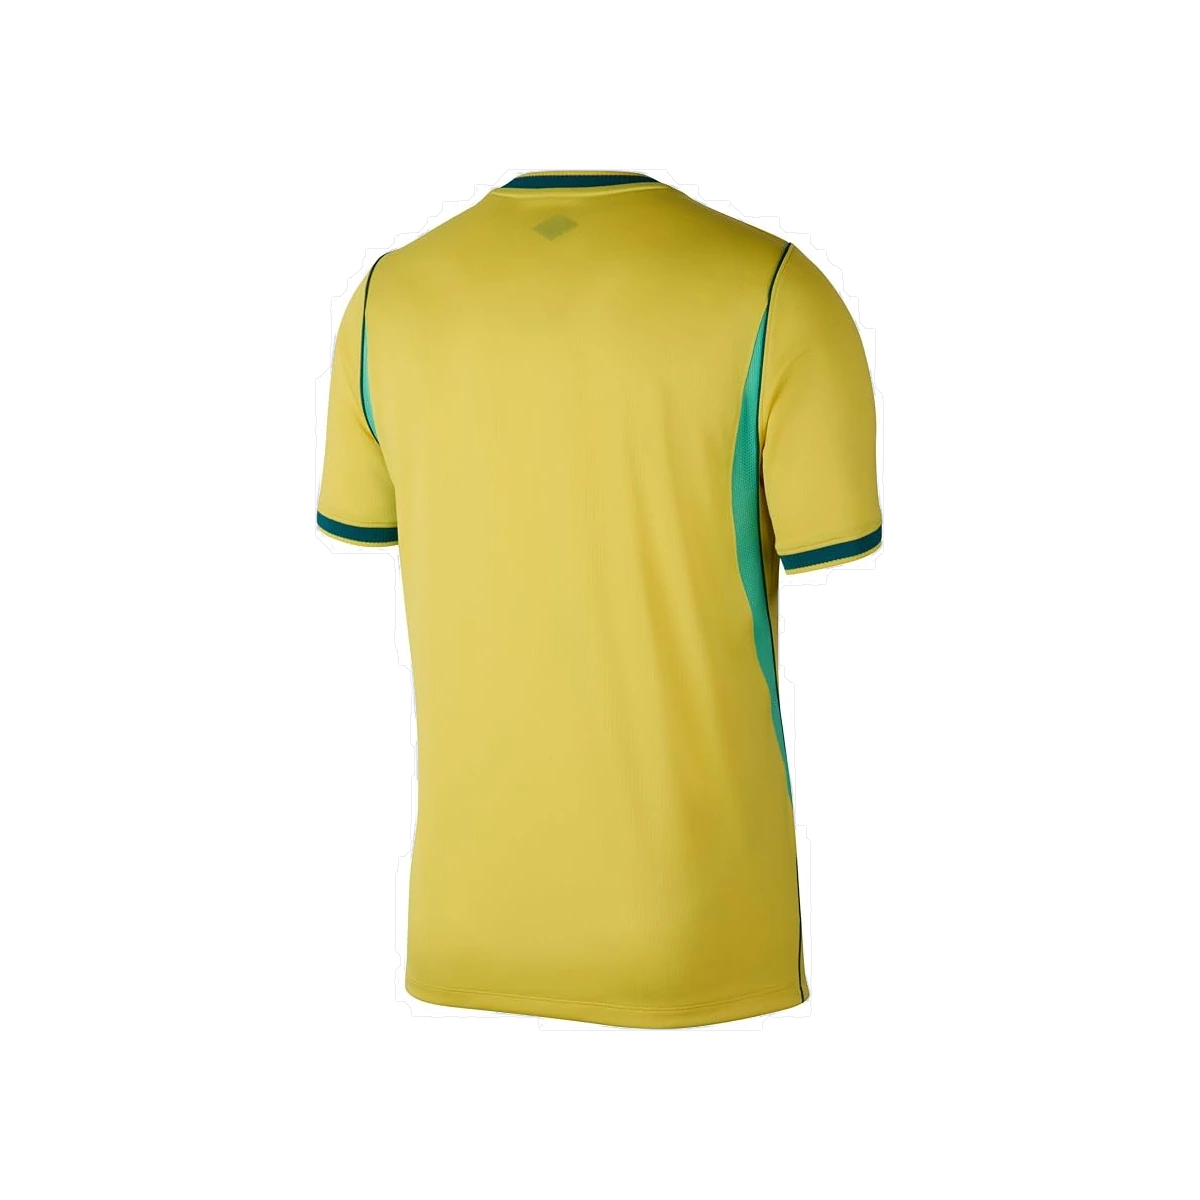
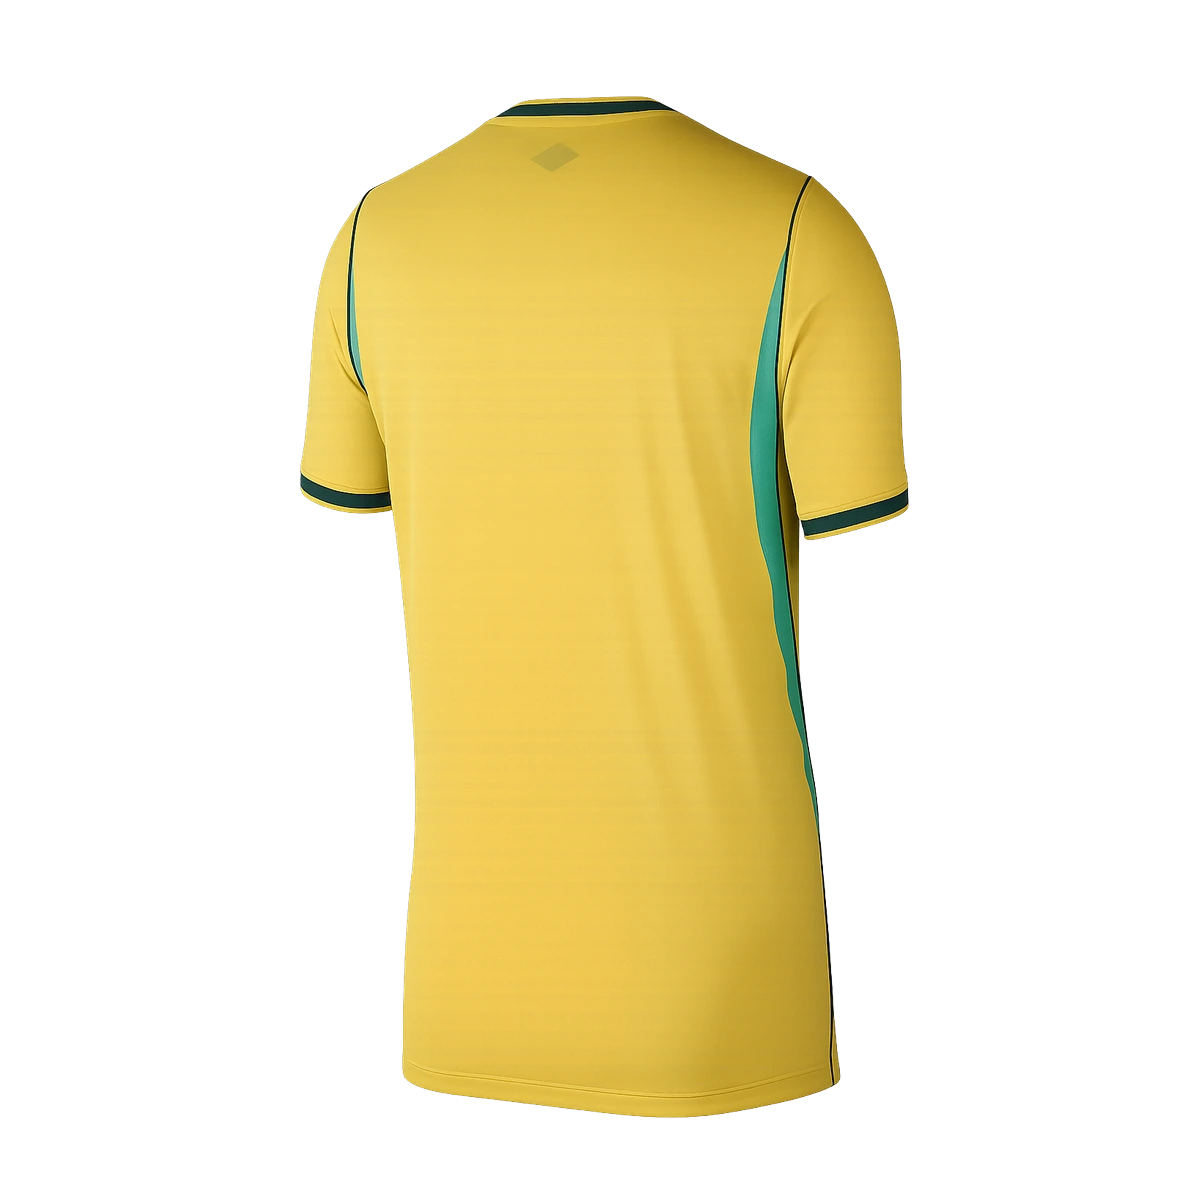
Reprocessa a camisa do Brasil com a foto em alta enviada
A foto anterior tinha 569x822 px e era JPEG apesar da extensão .png; a nova tem
1024x1536 e já vem com canal alfa limpo, então não passa por segmentação — usa
o alfa de origem.

O redimensionamento é feito com alfa premultiplicado: o resize comum trata RGB e
alfa em separado e faz a cor da área transparente vazar na borda. Como o fundo
invisível dessa foto é amarelado, sem isso sobraria um halo em volta da peça.

Tecido e detalhe passam a ser recortes da frente em alta, no lugar dos antigos.

Claude-Session: https://claude.ai/code/session_01FhZTF6ibyfHNs96LNrjM59

Changed region(s): [[0.2467, 0.0617, 0.7708, 0.9558], [0.3392, 0.5242, 0.37, 0.6783]]

diff --git a/README.md b/README.md
@@ -278,6 +278,11 @@ certo, e o algoritmo refina a borda. Detalhes que valem lembrar:
 - Em peças de cor forte, a franja clara que sobra na borda pode ser removida por
   saturação. **Não faça isso em camisa branca** — comeria a borda real do tecido.
 
+**Quando a foto já vem com alfa** (caso da camisa do Brasil), não segmente nada: use o
+alfa de origem. Só redimensione com o **alfa premultiplicado** — o resize comum trata RGB
+e alfa em separado e faz a cor da área transparente vazar na borda. Nessa foto o fundo
+invisível é amarelado, então o vazamento criaria um halo em volta da peça.
+
 ### Banners de categoria
 
 Cada card em "Escolha sua categoria" usa uma arte 4:3 em `assets/images/banners/`
@@ -494,7 +499,6 @@ Tudo que ainda é provisório está marcado no código com o comentário `PENDEN
 | Número do WhatsApp | `config.js` → `whatsappNumber` | **fictício** (`5581999999999`) |
 | Produtos e estoque | `products.js` | demonstrativos |
 | Fotos dos produtos | `assets/images/products/` | 14 de 30 produtos com foto real (Flamengo, Santa Cruz, Sport Recife, Real Madrid titular e segundo uniforme, Barcelona, PSG, Bayern de Munique, Borussia Dortmund, Liverpool, Arsenal alternativo, Brasil, Argentina, França); os demais usam placeholder |
-| Foto da camisa do Brasil | `assets/images/products/brasil/` | **Baixa resolução:** o original tem 569×822 px (as outras seleções têm 1000–1088 px) e é JPEG, não PNG, apesar da extensão. Foi ampliado para o padrão 1200×1200 e fica utilizável, mas vale reenviar em resolução maior |
 | Detalhes da camisa do Brasil | `assets/images/products/brasil/` | Só veio a foto do escudo; `-tecido` e `-detalhe` são recortes automáticos da frente. As de Argentina e França usam os três close-ups reais |
 | Uniforme do Arsenal alternativo | `products.js` → `arsenal-alternativo-2025-2026` | **PENDENTE:** confirmar com o fornecedor se é o segundo ou o terceiro uniforme (a foto é azul-marinho, não o titular vermelho) |
 | Logo, favicon, imagem social | `assets/images/brand/` | ✅ logo oficial aplicada |
